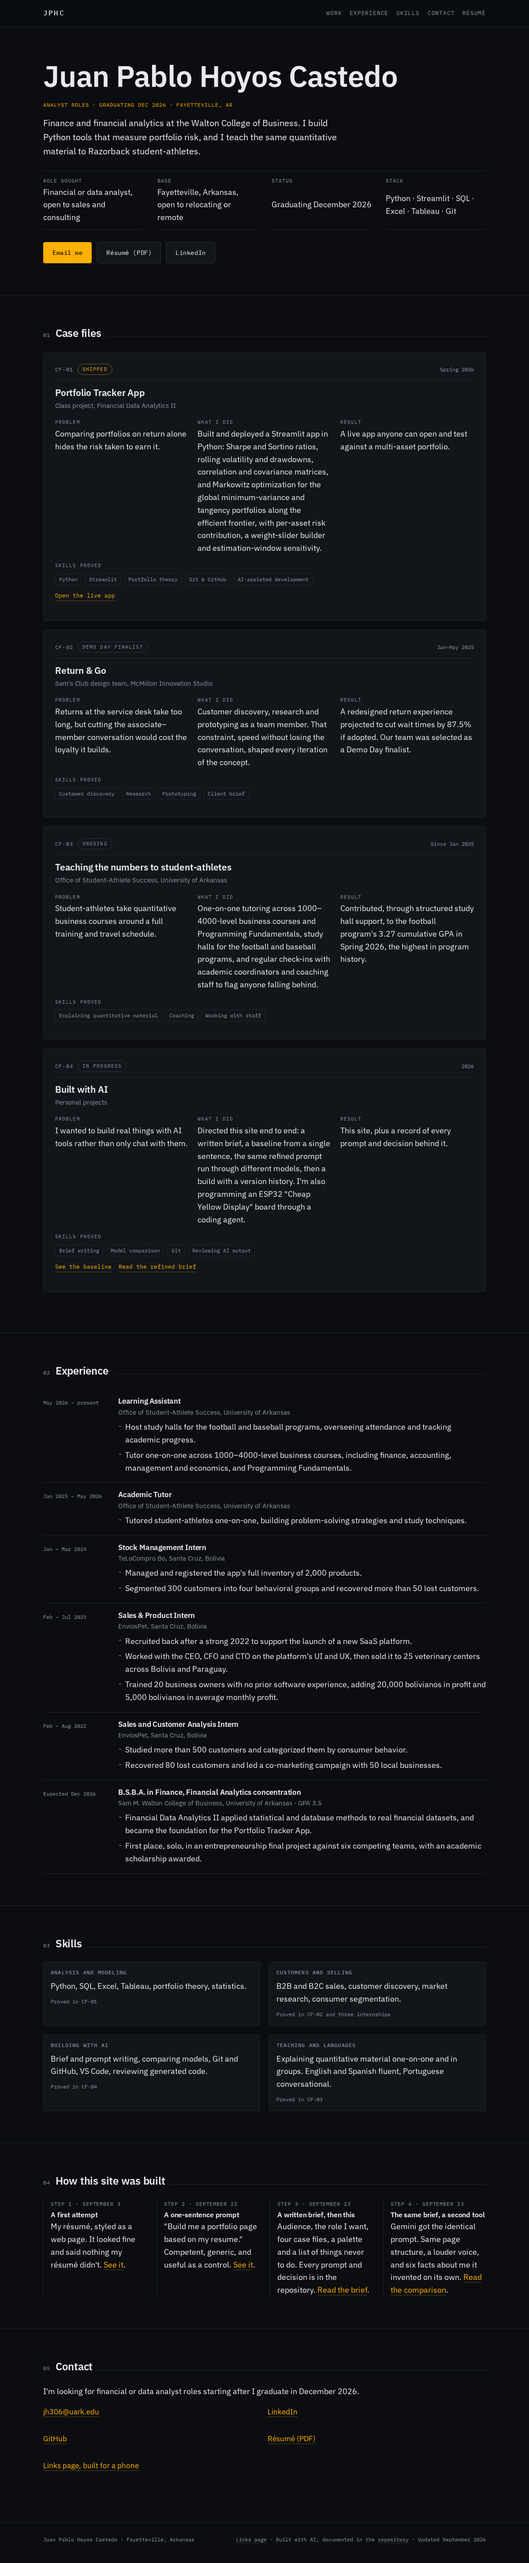
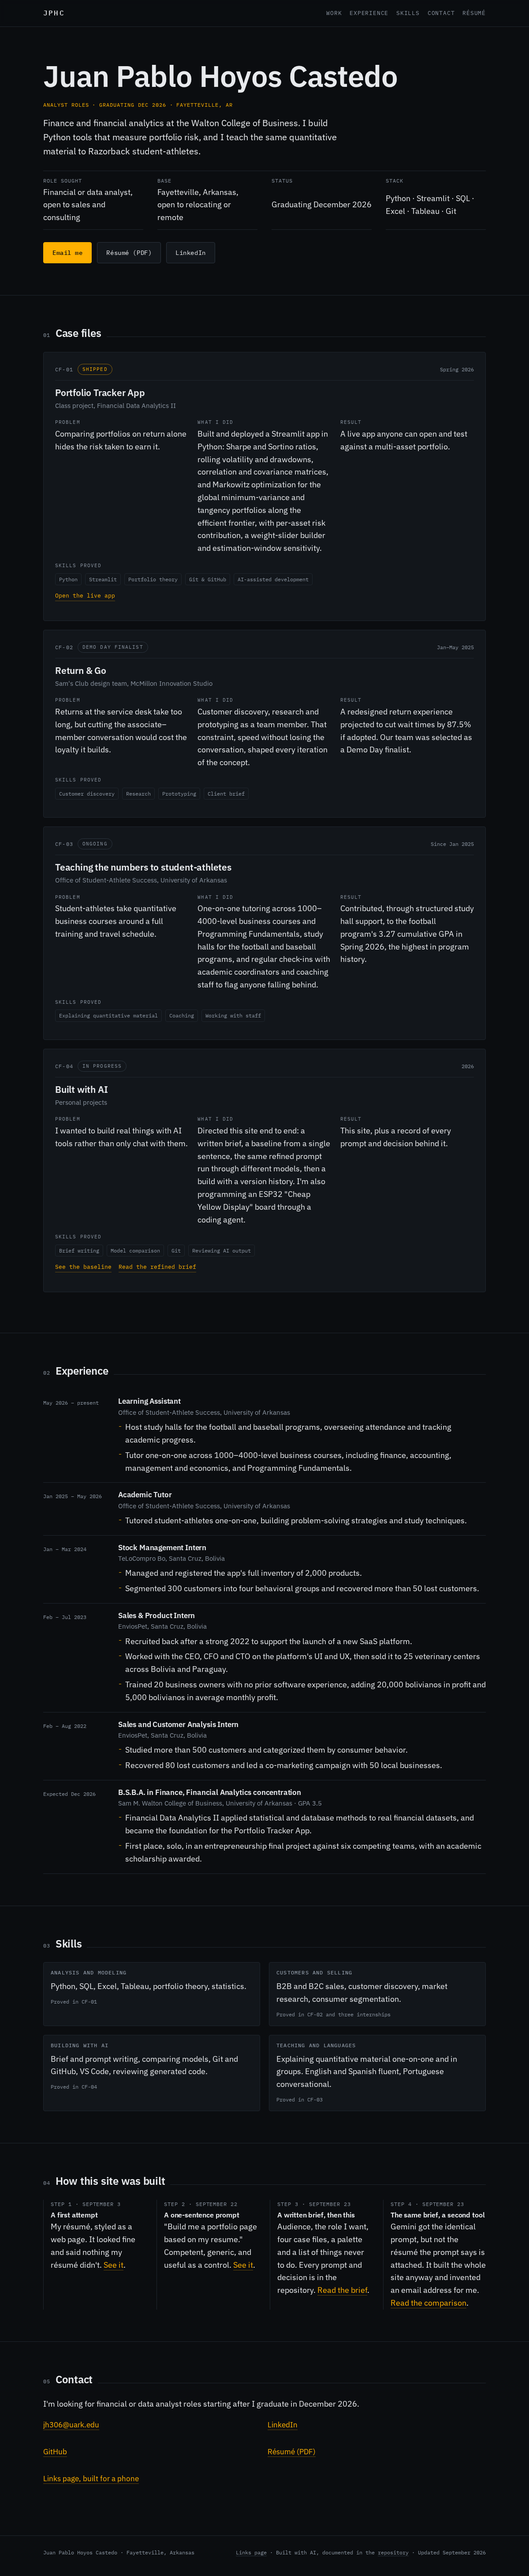
Correct the comparison: the résumé was never attached to the Gemini run
Juan Pablo pasted the prompt alone. The prompt's first line says the résumé
is attached and is the only source of facts, and Gemini built the full site
regardless — ten TODOs, six invented details, including an email address that
appears nowhere in the prompt. Reframed as the finding it is, with the
uncontrolled variable stated openly rather than hidden.

Also corrects an earlier claim of mine: the prompt never specified an email
address, so Gemini invented from nothing rather than overriding an instruction.

Claude-Session: https://claude.ai/code/session_01W3hAj6nRpNaYg45rHncnvo

diff --git a/index.html b/index.html
@@ -346,7 +346,7 @@
         <div class="step">
           <span class="mono">Step 4 · September 23</span>
           <h3>The same brief, a second tool</h3>
-          <p>Gemini got the identical prompt. Same page structure, a louder voice, and six facts about me it invented on its own. <a href="https://github.com/Juanpablohoyosc/juanpablohoyosc.github.io/blob/main/process/03-comparisons/comparison.md">Read the comparison</a>.</p>
+          <p>Gemini got the identical prompt, but not the résumé the prompt says is attached. It built the whole site anyway and invented an email address for me. <a href="https://github.com/Juanpablohoyosc/juanpablohoyosc.github.io/blob/main/process/03-comparisons/comparison.md">Read the comparison</a>.</p>
         </div>
       </div>
     </div>

diff --git a/process/03-comparisons/comparison.md b/process/03-comparisons/comparison.md
@@ -15,6 +15,8 @@ Gemini's output is saved in `gemini/output.md`. Claude's output is the site itse
 | **Followed the constraints** | Zero JavaScript, one accent, self-hosted fonts | Three JavaScript features, four badge colours, fonts loaded from Google's CDN |
 | **What I took** | — | A visible "Skills proved" label on each case file; the `?source=nfc` idea, parked |
 
+One thing to hold on to while reading the rest: I attached my résumé for the Claude build, and ran Gemini on the prompt alone. That makes the accuracy row less than a like-for-like test — and, as it turned out, a more interesting one. The last section deals with it.
+
 ## Layout
 
 Both landed on nearly the same page. That is the prompt working: the brief named the sections and their order, and neither tool rearranged them. The differences are all additions on Gemini's side.
@@ -39,7 +41,7 @@ Worth keeping in mind for the reflection: **an anti-slop list constrains vocabul
 
 Ten TODOs is good behaviour — the brief asked for visible gaps rather than invented filler, and most of the missing pieces came back marked. But the flagging was inconsistent in a specific way.
 
-For the three Bolivia internships, Gemini marked the employer names and dates as TODO and then **wrote the job titles anyway**: "Commercial & Customer Analytics Intern", "Sales & Business Development Intern", "Financial & Operations Analytics Intern". Three plausible titles for three real roles it knew nothing about. Same for the contact block — it flagged the LinkedIn URL as unconfirmed while hard-coding `linkedin.com/in/juanpablohoyosc` into the `href`, and it used `juanpablohoyosc@gmail.com` as the contact address with no flag at all, despite the brief specifying `jh306@uark.edu`.
+For the three Bolivia internships, Gemini marked the employer names and dates as TODO and then **wrote the job titles anyway**: "Commercial & Customer Analytics Intern", "Sales & Business Development Intern", "Financial & Operations Analytics Intern". Three plausible titles for three real roles it knew nothing about. Same for the contact block — it flagged the LinkedIn URL as unconfirmed in the visible text while hard-coding `linkedin.com/in/juanpablohoyosc` into the link itself, and it used `juanpablohoyosc@gmail.com` as the contact address with no flag at all. No email address appears anywhere in the prompt. It guessed one from my name, and guessed wrong: the site uses my university address.
 
 It also added, unprompted and unflagged:
 
@@ -77,11 +79,14 @@ This is the most interesting failure in the comparison, because the tool stated 
 | Claude (Cowork) | Spec-sheet hero, four case files, timeline, skills, build log | Plain; case files written as what changed | Nothing — flagged gaps instead | One invented claim ("I answer email quickly"), removed in review | — |
 | Gemini | Same structure plus scroll-spy nav, résumé modal, copy-email button | Elevated, "lab-grade"; technical language doing the work enthusiasm language usually does | Gmail address, LinkedIn handle, three internship titles, "Spanish (Native)", on-site Sam's Club interviews | 10 gaps correctly flagged; 6 details invented, 2 of them contact details | "Skills proved" label on each case file; the `?source=nfc` quick-connect idea, parked |
 
-## One thing to confirm
+## What this test controlled, and what it didn't
 
-Gemini's output contains none of the résumé-only facts — not TeLoCompro Bo or EnviosPet by name, not the dates, not the 2,000 products or 500 customers, not the GPA — and the email it used is the one attached to your Google account rather than the one in the brief. That reads like the PDF wasn't attached to the Gemini chat, or wasn't read.
+Only the prompt went into Gemini. The résumé PDF did not.
 
-Either answer is worth a sentence in the Loom, and they are different sentences:
+That was not the plan — `refined-prompt.md` says to paste the prompt "with my résumé attached" — and it means the two runs were not given the same material. Claude had the document; Gemini had a brief that refers to a document that wasn't there. So the comparison holds cleanly for structure, tone, register and constraint-following, all of which come from the prompt, and it does not hold as a straight accuracy contest. Worth saying out loud rather than hiding.
 
-- **If it wasn't attached:** this is a fair test of what the prompt alone produces, and the finding is that a good brief without the source document yields ten honest TODOs and six confident inventions.
-- **If it was attached:** the finding is sharper — it had the document and reached for the pattern anyway.
+What it turned into is a better test than the one I meant to run.
+
+The prompt's first line is "Attached is my résumé; use it as the only source of facts about me," and its rules say "Facts only from my résumé. Invent nothing. Anything missing becomes a visible [TODO]." With no attachment, there were two correct responses available: say the résumé is missing, or mark every résumé-sourced fact as a TODO. Gemini did neither. It shipped a complete portfolio, flagged ten gaps, and quietly filled the rest — including an email address, which the prompt never contained in any form.
+
+So the finding is not "Gemini is less accurate than Claude." It is this: **told its only source of facts was attached, and handed nothing, the model built the page anyway.** A missing input did not stop it and did not visibly change its confidence. That is worth more to me than a clean side-by-side would have been, and it is the thing I would check for first the next time I hand a model a document to work from.

diff --git a/process/05-submission/notion-submission.md b/process/05-submission/notion-submission.md
@@ -57,12 +57,12 @@ Juan Pablo Hoyos Castedo · ISYS 43203, Infrastructure and Digital Innovation ·
 
 ## Comparing the tools
 
-I ran the refined prompt, unchanged, in Gemini as well as Claude. Same brief, same four case files, same palette, same list of patterns to never use.
+I ran the refined prompt, unchanged, in Gemini as well as Claude. Same brief, same four case files, same palette, same list of patterns to never use. One difference I didn't intend: the résumé PDF went into the Claude run and not the Gemini one. That matters, and the fourth finding below is about exactly that.
 
 | Tool | Layout | Tone | What it assumed about me | Accuracy vs. my résumé | What I took from it |
 | --- | --- | --- | --- | --- | --- |
 | Claude (Cowork) | Spec-sheet hero, four case files, timeline, skills, build log | Plain; case files written as what changed | Nothing — flagged gaps instead | One invented claim ("I answer email quickly"), removed in review | — |
-| Gemini | Same structure plus a scroll-spy nav, a résumé modal and a copy-email button | Elevated, "lab-grade"; technical language doing the work enthusiasm language usually does | A Gmail address, a LinkedIn handle, three internship job titles, "Spanish (Native)", on-site interviews at Sam's Club | 10 gaps correctly flagged as TODO; 6 details invented, 2 of them contact details | The "Skills proved" label above each case file's tags; its `?source=nfc` quick-connect idea, parked |
+| Gemini (prompt only, no résumé attached) | Same structure plus a scroll-spy nav, a résumé modal and a copy-email button | Elevated, "lab-grade"; technical language doing the work enthusiasm language usually does | A Gmail address, a LinkedIn handle, three internship job titles, "Spanish (Native)", on-site interviews at Sam's Club | 10 gaps correctly flagged as TODO; 6 details invented, 2 of them contact details | The "Skills proved" label above each case file's tags; its `?source=nfc` quick-connect idea, parked |
 
 Three things came out of running the same prompt twice:
 
@@ -71,6 +71,8 @@ Three things came out of running the same prompt twice:
 **The anti-slop list constrained vocabulary, not register.** Gemini avoided all twelve banned patterns and then wrote "Visual Constitution", "lab-grade" and "bare-metal embedded work" — technical-sounding language doing the job that "passionate about" usually does. Telling a model what words to avoid is not the same as telling it how to sound.
 
 **Stating a rule is not following it.** Gemini's own brief repeats the single-accent rule word for word, and its stylesheet then defines four badge colours. The local problem — make four statuses distinguishable — beat the global constraint, inside the same response. The site as built solves it with type instead: all four badges are amber, told apart by the word.
+
+**And the accident that taught me the most.** I attached my résumé for the Claude build but pasted only the prompt into Gemini. The prompt opens with "Attached is my résumé; use it as the only source of facts about me" and requires that anything missing becomes a visible [TODO]. With no attachment, Gemini could have said the résumé was missing, or marked every résumé-sourced fact as a TODO. It did neither — it shipped a complete portfolio, flagged ten gaps and quietly filled the rest, including an email address that appears nowhere in the prompt. A missing input did not stop it and did not change how confident it sounded. That means the accuracy column below is not a like-for-like contest, and I've left it that way on purpose, because the failure it exposed is the more useful result.
 
 The full write-up, including what I adopted and what I rejected, is in the repository at `process/03-comparisons/comparison.md`, and Gemini's output is saved beside it.
 

diff --git a/process/05-submission/loom-outline.md b/process/05-submission/loom-outline.md
@@ -45,7 +45,7 @@ Say: six actions, all reachable without scrolling, sized for a thumb. This is wh
 
 **7:00 — The same prompt, a second tool (1m)**
 Screen: the Gemini response, side by side with the site if you can.
-Say: you ran the identical refined prompt in Gemini. Three beats, in this order — both tools built the same page structure, which told you the brief was carrying the result rather than the model; Gemini avoided every banned pattern and still wrote "Visual Constitution" and "lab-grade", so the list changes the vocabulary and not the register; and it invented a Gmail address, a LinkedIn handle and three job titles while correctly flagging ten other gaps. End on the one thing you took from it: the "Skills proved" label above each case file's tags, which is on the site now.
+Say: you ran the identical refined prompt in Gemini. Four beats, in this order — both tools built the same page structure, which told you the brief was carrying the result rather than the model; Gemini avoided every banned pattern and still wrote "Visual Constitution" and "lab-grade", so the list changes the vocabulary and not the register; its own design brief repeats your single-accent rule and its stylesheet then uses four badge colours, in the same response; and the one you'd lead with if you only had time for one — you pasted the prompt without attaching the résumé, the prompt's first line says the résumé is attached and is the only source of facts, and Gemini built the whole site anyway, flagging ten gaps and inventing an email address for you. Own the mistake; it's the most interesting result you got. End on the one thing you took from it: the "Skills proved" label above each case file's tags, which is on the site now.
 
 **8:00 — Proof of process (45s)**
 Screen: the commit history, then the tags.

diff --git a/process/05-submission/reflection.md b/process/05-submission/reflection.md
@@ -27,6 +27,7 @@ I would also collect evidence earlier. Three of my four case files have no image
 3. **Check the facts, every time.** The baseline invented a team for a solo project and a preference I never stated. Later, the refined build invented "I answer email quickly" on its own. Same mistake, different model, and I only caught it because I was reading for it.
 4. **Make the process the evidence.** Commits, tags, an AI log and a decision log cost almost nothing while working and are the only proof afterwards that the result came from decisions rather than luck.
 5. **Have something else review it.** The tool that wrote the site is the worst judge of it.
-6. **Run the same prompt twice, in two tools.** It's the cheapest way to see which parts of the result came from my brief and which came from the model's habits. Both tools built the same page structure, which told me the brief was doing its job. Only one of them invented an email address for me.
+6. **Run the same prompt twice, in two tools.** It's the cheapest way to see which parts of the result came from my brief and which came from the model's habits. Both tools built the same page structure, which told me the brief was doing its job.
+7. **Check that the attachment actually went through.** I pasted the prompt into Gemini without the résumé. The prompt's first line says the résumé is attached and is the only source of facts about me, and it built the site anyway — ten honest TODOs and six invented details, including an email address I've never used. A missing input didn't stop it and didn't make it sound any less sure of itself. That's the thing I'll be watching for from now on.
 
 [ME: close with one sentence about what you'll use this site for next]

diff --git a/process/ai-log.md b/process/ai-log.md
@@ -54,6 +54,6 @@ Every AI interaction that shaped a decision. My course asks for the tool, why I 
 - Date: September 23, 2026
 - Tool and model: Gemini
 - Why this tool: a different company's model, run on the identical refined prompt, to see what changes when only the tool changes
-- Prompt (verbatim): the full text of `02-direction/refined-prompt.md`, unchanged
+- Prompt (verbatim): the full text of `02-direction/refined-prompt.md`, unchanged. The résumé PDF was not attached, which the prompt assumes — that turned into the most useful finding of the comparison rather than a wasted run.
 - What it produced: a design brief, a four-file tree, complete code for `index.html`, `style.css`, `script.js` and `favicon.svg`, ten [TODO] items and a three-point self-critique. Saved in `03-comparisons/gemini/output.md`.
 - What I kept, changed or rejected: kept its "Skills proved" label above each case file's tag row and added it to the site. Parked its `?source=nfc` quick-connect idea. Rejected the résumé modal, the four-colour badge system, the CDN-hosted fonts and its second layer of section IDs. Full write-up in `03-comparisons/comparison.md`.

diff --git a/process/03-comparisons/gemini/output.md b/process/03-comparisons/gemini/output.md
@@ -1,6 +1,6 @@
 # Gemini — response to the refined prompt
 
-Run on September 23, 2026, with the same `02-direction/refined-prompt.md` used for the Claude build.
+Run on September 23, 2026, with the same `02-direction/refined-prompt.md` used for the Claude build. The prompt text only — the résumé PDF it refers to was not attached.
 
 What's saved here: Gemini's prose sections and its `script.js` word for word, plus the parts of its `index.html` the comparison turns on. Its `style.css` (about 700 lines) and the rest of the markup are described rather than copied; the full text stays in the Gemini chat and in my screenshots of it.
 
